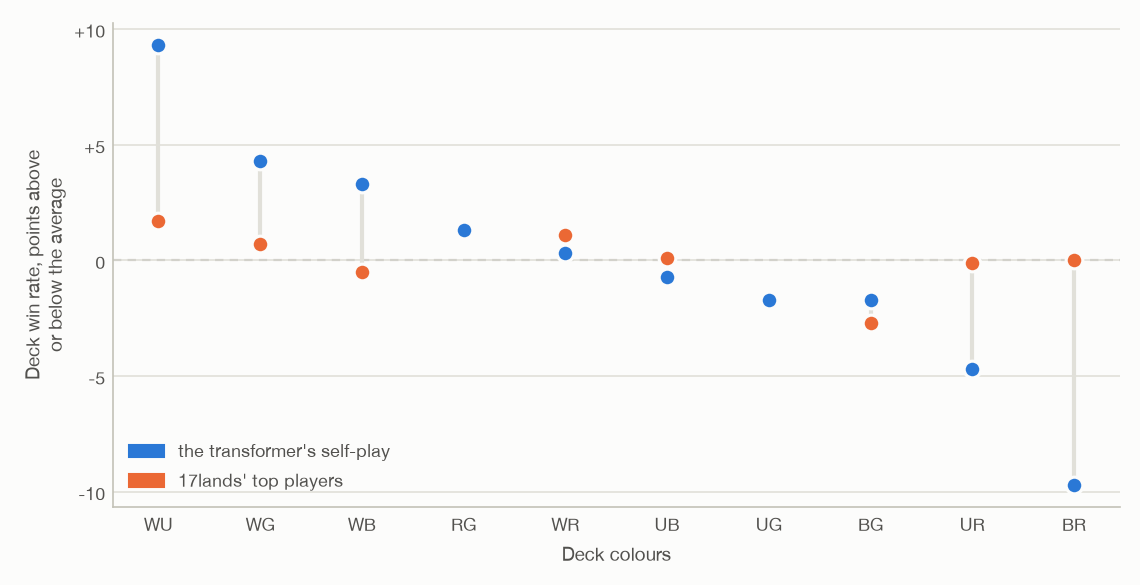
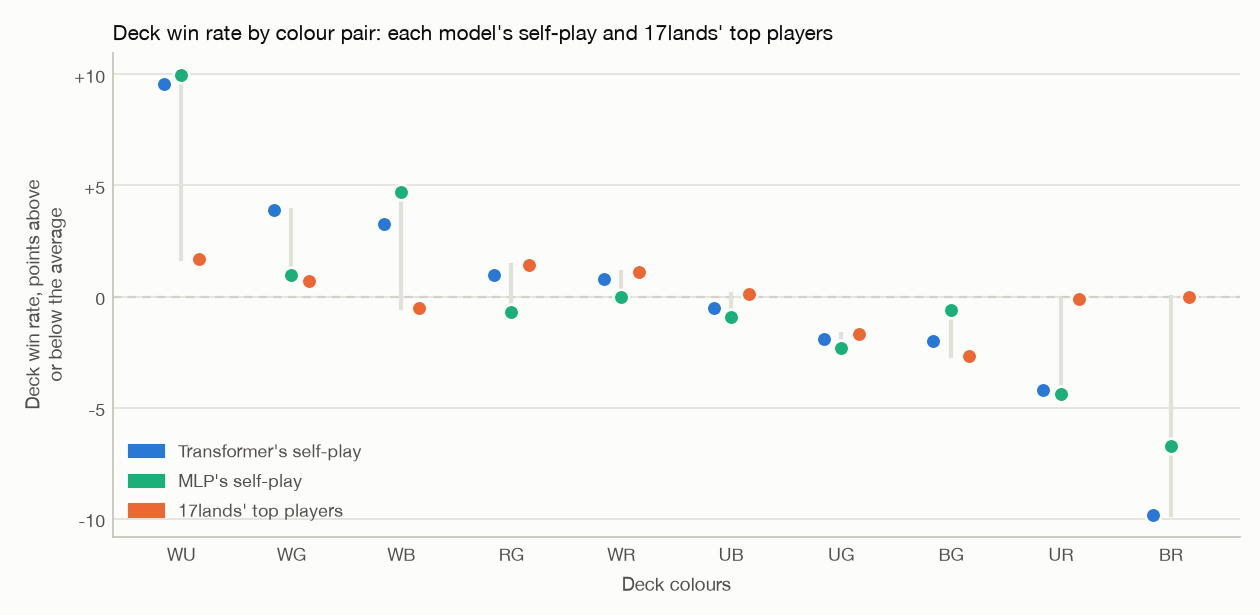
Docs/019 §4.4: card tables in place of the correlation and rank figure (17lands' top commons and top cards with each model's rank, the transformer's top commons); a card scatter for each model; colour pairs for both models, with the history of bots struggling with control decks (Lord of the Pigs' Fo
The transformer and the MLP are treated as separate models throughout the section, and every figure names its
model. Ranks are among the 90 commons and 266 non-basic cards both models drew 30+ times (card_stats.py); colour-pair
win rates are recomputed from the greedy self-play records.

Changed region(s): [[0.0, 0.0308, 0.9825, 0.9846], [0.2763, 0.3385, 0.307, 0.3692]]

diff --git a/tools/imitation_scale/fig_doc019.py b/tools/imitation_scale/fig_doc019.py
@@ -4,15 +4,16 @@ render everywhere (GitHub, Claude) where <picture> and mermaid don't.
     docs/img/019-pipeline-light.png  from a 17lands replay to training examples (docs/008 §4)
     docs/img/019-curves-light.png    validation curves of the two final networks by training decisions seen
     docs/img/019-ladder-light.png    win rate against heuristic@100 by search budget, the transformer and the MLP
-    docs/img/019-cards-light.png     agreement with 17lands' card win rates, and 17lands' top commons by rank
-    docs/img/019-colours-light.png   deck win rate by colour pair, self-play against 17lands' top players
+    docs/img/019-colours-light.png   deck win rate by colour pair: each model's self-play and 17lands' top players
+
+The card win-rate scatters (019-gih-transformer, 019-gih-mlp) come from tools/imitation_scale/fig_gih.py.
     docs/img/019-games-light.png     the games behind each agent, this work against other game-playing systems
 
     python tools/imitation_scale/fig_doc019.py [--running 1000,3000]
 
 The ladder pools a budget's runs (shards, tails, top-ups), one result per (deck pair, seat swap), and leaves out
 games that ended in an engine error; a game capped at 50 turns counts 0.5. The card and colour-pair numbers are
-docs/018's (C3 and the MLP's self-play), from tools/imitation_scale/gih.py and gih_ceiling.py.
+from the greedy self-play games (c1-selfplay-t0-s*, mlp-selfplay-t0) and 17lands' top players (docs/018, C1).
 """
 from __future__ import annotations
 
@@ -56,20 +57,12 @@ GAMES = [
     ("DeepNash (2022): Stratego self-play", 5_500_000_000, "selfplay", "5.5B"),
 ]
 
-# Spearman with 17lands' GIH WR (docs/018, C3 and the MLP's self-play), and the noise ceiling at ~17,700 player-games
-# (17lands' own games subsampled; median and 5-95%).
-CORR = {"Commons (90 cards)": {"Transformer, greedy": 0.41, "MLP, greedy": 0.34, "Transformer, sampled": 0.27,
-                               "ceiling": (0.82, 0.74, 0.86)},
-        "Every non-basic card (267)": {"Transformer, greedy": 0.43, "MLP, greedy": 0.40, "Transformer, sampled": 0.45,
-                                       "ceiling": (0.79, 0.74, 0.82)}}
-# 17lands' top 15 commons by GIH WR, and their rank among 90 commons in the transformer's greedy self-play (docs/018).
-TOP15 = [("Bake into a Pie", 44), ("Burst Lightning", 83), ("Stab", 43), ("Dazzling Angel", 1),
-         ("Luminous Rebuke", 10), ("Refute", 21), ("Healer's Hawk", 5), ("Helpful Hunter", 15),
-         ("Banishing Light", 3), ("Felidar Savior", 6), ("Bigfin Bouncer", 11), ("Llanowar Elves", 37),
-         ("Infestation Sage", 55), ("Gorehorn Raider", 74), ("Think Twice", 36)]
-# Deck win rate by main colours: the transformer's greedy self-play, and 17lands' top players (docs/018, C1 and C3).
-COLOURS = [("WU", 0.59, 0.656), ("WG", 0.54, 0.646), ("WB", 0.53, 0.634), ("RG", 0.51, 0.653), ("WR", 0.50, 0.650),
-           ("UB", 0.49, 0.640), ("UG", 0.48, 0.622), ("BG", 0.48, 0.612), ("UR", 0.45, 0.638), ("BR", 0.40, 0.639)]
+# Deck win rate by main colours: each model's greedy self-play (recomputed from the game records: deck1 sits in
+# seat A, games with a winner), and 17lands' top players (docs/018, C1).
+COLOURS = [("WU", 0.592, 0.595, 0.656), ("WG", 0.535, 0.505, 0.646), ("WB", 0.529, 0.542, 0.634),
+           ("RG", 0.506, 0.488, 0.653), ("WR", 0.504, 0.495, 0.650), ("UB", 0.491, 0.486, 0.640),
+           ("UG", 0.477, 0.472, 0.622), ("BG", 0.476, 0.489, 0.612), ("UR", 0.454, 0.451, 0.638),
+           ("BR", 0.398, 0.428, 0.639)]
 
 
 def style(ax, grid="y"):
@@ -226,83 +219,26 @@ def curves():
     save(fig, "019-curves")
 
 
-def cards():
-    fig, (ax, bx) = plt.subplots(1, 2, figsize=(12.5, 4.9), facecolor=T["surface"],
-                                 gridspec_kw={"width_ratios": [1.25, 1]})
-    series = ["Transformer, greedy", "MLP, greedy", "Transformer, sampled"]
-    colours = [T["Transformer"], T["MLP"], "#9cc0ec"]
-    bw = 0.22
-    for gi, (group, vals) in enumerate(CORR.items()):
-        c, lo, hi = vals["ceiling"]
-        ax.add_patch(plt.Rectangle((gi - 0.45, lo), 0.9, hi - lo, color=T["grid"], zorder=0, lw=0))
-        ax.plot([gi - 0.45, gi + 0.45], [c, c], color=T["muted"], lw=1.2, ls=(0, (4, 3)), zorder=1)
-        ax.text(gi, hi + 0.015, f"noise ceiling {c:.2f} (5–95%: {lo:.2f}–{hi:.2f})", ha="center", va="bottom",
-                fontsize=7.8, color=T["muted"])
-        for si, (s, col) in enumerate(zip(series, colours)):
-            x = gi + (si - 1) * (bw + 0.03)
-            ax.bar(x, vals[s], width=bw, color=col, edgecolor=T["surface"], lw=1.5, zorder=2)
-            ax.text(x, vals[s] + 0.012, f"{vals[s]:.2f}", ha="center", va="bottom", fontsize=8, color=T["ink2"])
-    ax.set_xticks(range(len(CORR)), list(CORR), fontsize=9, color=T["ink"])
-    ax.set_ylim(0, 1.05)
-    ax.set_xlim(-0.55, len(CORR) - 0.45)
-    ax.set_ylabel("Rank correlation with 17lands (Spearman)", fontsize=9, color=T["ink2"])
-    ax.set_title("How well self-play ranks the cards, against what noise allows", loc="left", fontsize=10,
-                 color=T["ink"])
-    style(ax)
-    ax.legend(handles=[Patch(color=c, label=s.replace("\n", " ")) for s, c in zip(series, colours)],
-              loc="upper left", frameon=False, fontsize=8, labelcolor=T["ink2"], ncol=3, bbox_to_anchor=(0, 1.0))
-    # slope chart: 17lands' rank -> self-play rank
-    # the left column spreads 17lands' ranks 1-15 over the height; the right is the self-play rank, 1-90
-    right = []
-    for i, (name, r) in enumerate(TOP15):
-        y0, y1 = (i + 1) * 6, r
-        drop = r - (i + 1) >= 25
-        col = T["human"] if drop else T["axis"]
-        bx.plot([0, 1], [y0, y1], color=col, lw=2 if drop else 1.2, zorder=2 if drop else 1)
-        bx.plot([0, 1], [y0, y1], "o", ms=4, color=col, zorder=3)
-        bx.text(-0.04, y0, f"{i + 1}. {name}", ha="right", va="center", fontsize=7.8,
-                color=T["ink"] if drop else T["ink2"])
-        if drop:
-            right.append((r, name))
-    last = -10
-    for r, name in sorted(right):   # nudge labels apart where ranks are close
-        y = max(r, last + 4)
-        bx.text(1.04, y, f"{r}. {name}", ha="left", va="center", fontsize=7.8, color=T["ink"])
-        last = y
-    bx.text(1.04, 6, "1–15: the rest\n(Dazzling Angel 1st)", ha="left", va="center", fontsize=7.5, color=T["ink2"])
-    bx.set_ylim(93, 0)
-    bx.set_xlim(-0.05, 1.6)
-    bx.set_xticks([0, 1], ["rank on 17lands", "rank in self-play\n(of 90 commons)"], fontsize=8.5, color=T["ink2"])
-    bx.set_yticks([])
-    for sp in ("top", "right", "left", "bottom"):
-        bx.spines[sp].set_visible(False)
-    bx.tick_params(length=0)
-    bx.set_facecolor(T["surface"])
-    bx.set_title("17lands' 15 best commons: where self-play ranks them", loc="left", fontsize=10, color=T["ink"],
-                 x=-0.45)
-    fig.tight_layout()
-    fig.subplots_adjust(wspace=0.45)
-    save(fig, "019-cards")
-
-
 def colour_pairs():
-    sim_mean = sum(s for _, s, _ in COLOURS) / len(COLOURS)
-    hum_mean = sum(h for _, _, h in COLOURS) / len(COLOURS)
-    fig, ax = plt.subplots(figsize=(7.6, 3.9), facecolor=T["surface"])
-    for i, (pair, s, h) in enumerate(COLOURS):
-        ds, dh = 100 * (s - sim_mean), 100 * (h - hum_mean)
-        ax.plot([i, i], [dh, ds], color=T["grid"], lw=2, zorder=1)
-        ax.plot(i, dh, "o", ms=8, color=T["human"], zorder=3, markeredgecolor=T["surface"], markeredgewidth=1.5)
-        ax.plot(i, ds, "o", ms=8, color=T["Transformer"], zorder=3, markeredgecolor=T["surface"],
-                markeredgewidth=1.5)
+    series = [("Transformer's self-play", 1, T["Transformer"]), ("MLP's self-play", 2, T["MLP"]),
+              ("17lands' top players", 3, T["human"])]
+    means = {k: sum(c[k] for c in COLOURS) / len(COLOURS) for _, k, _ in series}
+    fig, ax = plt.subplots(figsize=(8.4, 4.1), facecolor=T["surface"])
+    for i, c in enumerate(COLOURS):
+        ys = [100 * (c[k] - means[k]) for _, k, _ in series]
+        ax.plot([i, i], [min(ys), max(ys)], color=T["grid"], lw=2, zorder=1)
+        for (label, k, col), off in zip(series, (-0.16, 0.0, 0.16)):
+            ax.plot(i + off, 100 * (c[k] - means[k]), "o", ms=7.5, color=col, zorder=3,
+                    markeredgecolor=T["surface"], markeredgewidth=1.3)
     ax.axhline(0, color=T["muted"], lw=1, ls=(0, (4, 3)), zorder=0)
-    ax.set_xticks(range(len(COLOURS)), [p for p, _, _ in COLOURS], fontsize=9, color=T["ink"])
+    ax.set_xticks(range(len(COLOURS)), [c[0] for c in COLOURS], fontsize=9, color=T["ink"])
     ax.set_yticks(range(-10, 11, 5), [f"{v:+d}" if v else "0" for v in range(-10, 11, 5)])
     ax.set_ylabel("Deck win rate, points above\nor below the average", fontsize=9, color=T["ink2"])
     ax.set_xlabel("Deck colours", fontsize=9, color=T["ink2"])
+    ax.set_title("Deck win rate by colour pair: each model's self-play and 17lands' top players", loc="left",
+                 fontsize=10, color=T["ink"])
     style(ax)
-    ax.legend(handles=[Patch(color=T["Transformer"], label="the transformer's self-play"),
-                       Patch(color=T["human"], label="17lands' top players")], loc="lower left", frameon=False,
+    ax.legend(handles=[Patch(color=col, label=label) for label, _, col in series], loc="lower left", frameon=False,
               fontsize=8.5, labelcolor=T["ink2"])
     fig.tight_layout()
     save(fig, "019-colours")
@@ -342,7 +278,6 @@ def main(argv=None):
     pipeline()
     curves()
     ladder(set(a.running.split(",")) - {""})
-    cards()
     colour_pairs()
     games_figure()
     return 0

diff --git a/docs/019-imitation-learning-report.md b/docs/019-imitation-learning-report.md
@@ -24,8 +24,9 @@ We then let each network guide a tree search and played it against MageZero's ha
   bot searching 100 simulations. With search of its own, the network won 55–56% at 100 simulations, 61–64% at 300,
   and up to 66% at 3,000.
 - **With equal search on both sides, the network bot won 56% of 314 paired games.**
-- **Playing its policy alone against itself, the network ranks cards somewhat like humans do.** Card win rates from
-  10,000 such games correlate with 17lands' at 0.41 on commons, about half of what sampling noise allows.
+- **Playing its policy alone against itself, the transformer ranks cards somewhat like humans do.** Card win rates
+  from 10,000 such games correlate with 17lands' at 0.41 on commons, about half of what sampling noise allows. The
+  MLP's correlate at 0.34.
 
 The next step is to keep improving these networks by self-play, starting from what they learned from people.
 
@@ -97,8 +98,8 @@ So this experiment asks how far top players' games can take us:
 - **Search turns imitation into strength.** The policy alone loses to the heuristic bot, but with search the network
   bot wins 55–66% of games depending on how much it searches (§4.2).
 - **The MLP plays as well as the transformer** at a tenth of the computing cost per move (§4.2).
-- **Self-play with the policy alone ranks cards partly like 17lands does,** but it undervalues burn and removal
-  (§4.4).
+- **Self-play with each model's policy alone ranks cards partly like 17lands does** (0.41 for the transformer, 0.34
+  for the MLP, on commons), but both undervalue burn and removal (§4.4).
 
 The whole experiment has cost about $63 of rented compute so far, three quarters of it for evaluation games (§4.5).
 
@@ -346,55 +347,110 @@ it also makes errors of its own, judged by a value learned from results. The heu
 agreement, however much it searches. Keeping the human sense of the game while adding search is the main problem
 for the next stage.
 
-### 4.4 Do the bots value cards like humans do?
+### 4.4 Do the models value cards like humans do?
 
 17lands' best-known statistic is a card's **games-in-hand win rate:** how often a deck wins the games in which that
-card was drawn. Players use it to rank cards. If an agent plays like people do, the same statistic computed from its
+card was drawn. Players use it to rank cards. If a model plays like people do, the same statistic computed from its
 own games should rank the cards the same way.
 
-We played **10,000 games of each network's policy against itself** (its most likely move every time, no search, about
-$0.00026 a game). We then compared each card's win rate in those games with 17lands' (791,000 games), using the
-Spearman rank correlation.
+We played **10,000 games of each model's policy against itself**, the transformer's and the MLP's separately (its
+most likely move every time, no search, about $0.00026 a game). We then compared each card's win rate in each
+model's games with 17lands' (791,000 games), using the Spearman rank correlation.
 
 **How high could it be?** Even a perfect agent wouldn't reach 1.0 from 10,000 games, because of sampling noise. We
 estimate this ceiling by drawing 17lands' own games down to the same size (~17,700 player-games) and correlating them
 with the full file. The range is the 5th to 95th percentile over repeated draws.
 
-| Rank correlation with 17lands | Cards | Transformer | MLP | Transformer, random moves in proportion to the policy | Noise ceiling [5–95%] |
+| Rank correlation with 17lands | Cards | Transformer | MLP | Transformer, random moves in proportion to its policy | Noise ceiling [5–95%] |
 |---|---|---|---|---|---|
 | **Commons** | 90 | **0.41** | 0.34 | 0.27 | 0.82 [0.74, 0.86] |
 | Every non-basic card | 267 | 0.43 | 0.40 | **0.45** | 0.79 [0.74, 0.82] |
 
-![Left: bar chart of the rank correlation with 17lands. Commons: transformer 0.41, MLP 0.34, transformer with random moves 0.27, against a noise ceiling of 0.82 (5–95%: 0.74–0.86). Every non-basic card: 0.43, 0.40 and 0.45 against a ceiling of 0.79 (0.74–0.82). Right: 17lands' 15 best commons by rank, connected to their rank in the transformer's self-play. Seven of them stay in self-play's top 15, but Burst Lightning falls from 2nd to 83rd, Gorehorn Raider from 14th to 74th, Infestation Sage from 13th to 55th, Bake into a Pie from 1st to 44th, Stab from 3rd to 43rd and Llanowar Elves from 12th to 37th.](img/019-cards-light.png)
+**Card by card.** The tables below rank cards among the 90 commons, or the 266 non-basic cards, that both models drew
+at least 30 times in their self-play. Win rates in self-play sit lower overall than 17lands' because self-play is
+zero-sum (every game has exactly one winner), so compare ranks rather than levels.
 
-*Figure 4. Left: how well each bot's self-play ranks the cards, against the best that sampling noise allows. Right:
-where self-play ranks 17lands' 15 best commons. Orange lines fall 25 places or more.*
+*17lands' six best commons, and where each model ranks them (of 90):*
 
-![Each card's win rate when drawn, in the transformer's self-play (vertical) against 17lands' human games (horizontal): commons on the left (correlation 0.41) and every non-basic card on the right (0.43). Burst Lightning, Gorehorn Raider and Involuntary Employment sit far below the trend; Hare Apparent and Gleaming Barrier sit above it.](img/018-gih-t0-light.png)
+| 17lands rank | Card | 17lands win rate | Transformer: win rate (rank) | MLP: win rate (rank) |
+|---|---|---|---|---|
+| 1 | Bake into a Pie | 58.0% | 50.0% (44) | 51.7% (27) |
+| 2 | Burst Lightning | 57.9% | 42.3% (83) | 44.5% (77) |
+| 3 | Stab | 57.9% | 50.1% (43) | 51.1% (37) |
+| 4 | Dazzling Angel | 57.8% | 60.6% (1) | 61.0% (2) |
+| 5 | Luminous Rebuke | 57.7% | 55.6% (10) | 56.0% (9) |
+| 6 | Refute | 57.6% | 52.6% (21) | 52.0% (24) |
 
-*Figure 5. Each card's win rate when drawn, in the transformer's self-play against 17lands. Simulated win rates sit
-lower overall because self-play is zero-sum.*
+*17lands' six best cards of any rarity, and where each model ranks them (of 266):*
 
-![Deck win rate by colour pair, in points above or below each source's average, for the transformer's self-play and for 17lands' top players. Self-play spreads from +9 points (white-blue) to −10 (black-red); top players stay within about ±3 points.](img/019-colours-light.png)
+| 17lands rank | Card | Rarity | 17lands win rate | Transformer: win rate (rank) | MLP: win rate (rank) | Games in hand, transformer / MLP |
+|---|---|---|---|---|---|---|
+| 1 | Liliana, Dreadhorde General | mythic | 64.1% | 50.0% (139) | 49.0% (160) | 198 / 196 |
+| 2 | Embercleave | mythic | 63.8% | 57.9% (27) | 50.0% (137) | 38 / 32 |
+| 3 | Bloodthirsty Conqueror | mythic | 62.7% | 60.5% (11) | 63.9% (4) | 296 / 302 |
+| 4 | Zimone, Paradox Sculptor | mythic | 62.6% | 54.8% (49) | 53.1% (77) | 199 / 194 |
+| 5 | Spinner of Souls | rare | 62.1% | 52.5% (87) | 49.9% (143) | 417 / 391 |
+| 6 | Curator of Destinies | rare | 62.1% | 45.3% (216) | 47.8% (185) | 327 / 385 |
 
-*Figure 6. Deck win rate by colour pair, relative to each source's average. The bots favour some colour pairs far
-more than top players' results do.*
+*The other way round: the transformer's six best commons, and where 17lands and the MLP rank them (of 90):*
 
-- **A policy that never searches still captures a real part of card quality.** 0.41 on commons is the best agreement
-  we have measured at a sample size where noise doesn't dominate. Earlier agents scored 0.20–0.46, but on only
-  1,000–3,000 games, where even 17lands' own games would reach only about 0.35–0.5.
-- **It is about half the ceiling, so the gap is real, not noise.** The two networks agree with each other far more
-  (0.91 on commons) than either agrees with 17lands. So the gap comes mostly from the shared engine and the way the
-  bots play, not from either network.
-- **The bots undervalue spells that need a target and the right moment** (Figure 4, right). Burst Lightning is
-  17lands' second-best common and 83rd of 90 in self-play. Bake into a Pie, Stab and Gorehorn Raider, which also
-  destroy or damage a creature, drop 40–60 places. Some cheap creatures sit well above their 17lands rank instead
-  (Figure 5). The policy plays creatures like the humans do, but not yet "deal 2 damage to any target".
-- **Its best move beats a random draw from its policy** on commons (0.41 against 0.27). Random draws waste the
-  policy's better timing with spells: Refute rises from 51st to 21st, and Luminous Rebuke from 23rd to 10th.
-- **The bots spread the colour pairs about four times wider than top players do** (Figure 6). Deck win rates in
-  self-play run from 40% to 59%; top players' run from 61% to 66%. Blue-red and black-red come last. Simple bots
-  in this engine seem to favour creature decks.
+| Transformer rank | Card | Transformer win rate | 17lands win rate (rank) | MLP rank |
+|---|---|---|---|---|
+| 1 | Dazzling Angel | 60.6% | 57.8% (4) | 2 |
+| 2 | Vanguard Seraph | 60.4% | 54.5% (41) | 1 |
+| 3 | Banishing Light | 59.2% | 57.5% (8) | 5 |
+| 4 | Tranquil Cove | 58.9% | 55.6% (24) | 8 |
+| 5 | Healer's Hawk | 58.4% | 57.5% (7) | 4 |
+| 6 | Felidar Savior | 57.3% | 57.4% (10) | 7 |
+
+![The transformer's self-play: each card's win rate when drawn (vertical) against 17lands' (horizontal), commons on the left (Spearman 0.41) and every non-basic card on the right (0.43). Burst Lightning, Gorehorn Raider and Involuntary Employment sit far below the trend; Hare Apparent and Gleaming Barrier sit above it.](img/019-gih-transformer-light.png)
+
+*Figure 4. The transformer: each card's win rate when drawn in its self-play, against 17lands. Simulated win rates
+sit lower overall because self-play is zero-sum.*
+
+![The MLP's self-play: each card's win rate when drawn (vertical) against 17lands' (horizontal), commons on the left (Spearman 0.34) and every non-basic card on the right (0.40). Burst Lightning, Involuntary Employment and Gorehorn Raider sit far below the trend; Gleaming Barrier sits far above it.](img/019-gih-mlp-light.png)
+
+*Figure 5. The MLP: the same comparison for its self-play.*
+
+- **The transformer's policy, which never searches, captures a real part of card quality.** Its 0.41 on commons is
+  the best agreement we have measured at a sample size where noise doesn't dominate. Earlier agents scored
+  0.20–0.46, but on only 1,000–3,000 games, where even 17lands' own games would reach only about 0.35–0.5. The MLP
+  reaches 0.34.
+- **At the top, the transformer agrees with 17lands quite well.** Four of its six best commons are in 17lands' top
+  ten. The MLP's six best commons include three of 17lands' top ten, but also Gleaming Barrier, the lowest-rated of these
+  90 commons on 17lands.
+- **Both models undervalue most of the best removal.** Burst Lightning, 17lands' second-best common, is 83rd for the
+  transformer and 77th for the MLP. Bake into a Pie and Stab fall to the 20s–40s. Banishing Light is the exception,
+  3rd for the transformer and 5th for the MLP. Both models play creatures much like the humans do, but not yet
+  "deal 2 damage to any target".
+- **The best rares fall further, and their ranks are noisier.** Liliana, Dreadhorde General, 17lands' best card, is
+  139th for the transformer and 160th for the MLP, and Curator of Destinies is around 200th for both. A rare is drawn
+  in only 30–500 of a model's games, against about 2,000 for a typical common, so single ranks can move a long way
+  (Embercleave: 27th for the transformer from 38 games, 137th for the MLP from 32).
+- **The transformer's best move beats a random draw from its policy** on commons (0.41 against 0.27). Random draws
+  waste its better timing with spells: Refute rises from 51st to 21st, and Luminous Rebuke from 23rd to 10th.
+- **The two models agree with each other far more than with 17lands** (0.91 on commons). Most of the gap comes from
+  what they share, the engine and the way they were trained, rather than from either network.
+
+![Deck win rate by colour pair, in points above or below each source's average, for the transformer's self-play, the MLP's self-play and 17lands' top players. Both models put white-blue on top (about +10 points) and black-red last (−10 for the transformer, −7 for the MLP); blue-black sits near the average for both models and for top players; blue-red is about 4 points below average for both models and even for top players. Top players stay within about ±3 points.](img/019-colours-light.png)
+
+*Figure 6. Deck win rate by colour pair in the transformer's and the MLP's self-play, and for 17lands' top players,
+each relative to its own average.*
+
+**Colour pairs.** Both models spread the colour pairs about four times wider than top players do. Deck win rates run
+from 40% to 59% in the transformer's self-play and from 43% to 60% in the MLP's, against 61% to 66% for top players.
+
+Historically, simple and self-play bots have struggled with slower, controlling decks, which win with removal, card
+draw and well-timed instants. In Forge's AI self-play, cards win least often in blue (47.3% of their games, against
+50.9% in white), and the AI "times instants and card advantage poorly" (Lord of the Pigs' limited simulations:
+[draft-agent behaviour](https://github.com/npiguet/price-predictor/blob/master/experiments/2026-08-29-draft-agent-behaviour.md),
+[scorer preferences](https://github.com/npiguet/price-predictor/blob/master/experiments/2026-08-27-scorer-preferences.md)).
+Our own experiment #1 underrated blue commons more than any other colour ([docs/003](003-fdn-generalist-report.md)).
+
+So it is encouraging to see the blue control pairs hold up here. Blue-black wins at its average rate for both
+models, just as it does for top players. Blue-red, though about 4 points below average for both models, finishes
+ahead of black-red. White-blue is both models' best pair. The clearest weakness is black-red, last for both models (−10
+points for the transformer, −7 for the MLP), in line with their trouble with burn.
 
 ### 4.5 What it cost
 
@@ -534,7 +590,8 @@ width 512.
   belief service `tools/imitation_scale/belief_server.py`. Game records: HF `exp4/games/runs/`.
 - **Card statistics:** `tools/imitation_scale/gih.py` and `gih_ceiling.py`.
 - **This document's figures:** `python tools/imitation_scale/fig_doc019.py --running 1000,3000` (drop `--running`
-  once the MLP's games finish). Figure 5 is docs/018's (`tools/imitation_scale/fig_gih.py`).
+  once the MLP's games finish). Figures 4 and 5 come from `tools/imitation_scale/fig_gih.py` on each model's greedy
+  self-play games, and the card tables from `tools/imitation_scale/card_stats.py`.
 
 ## References
 
